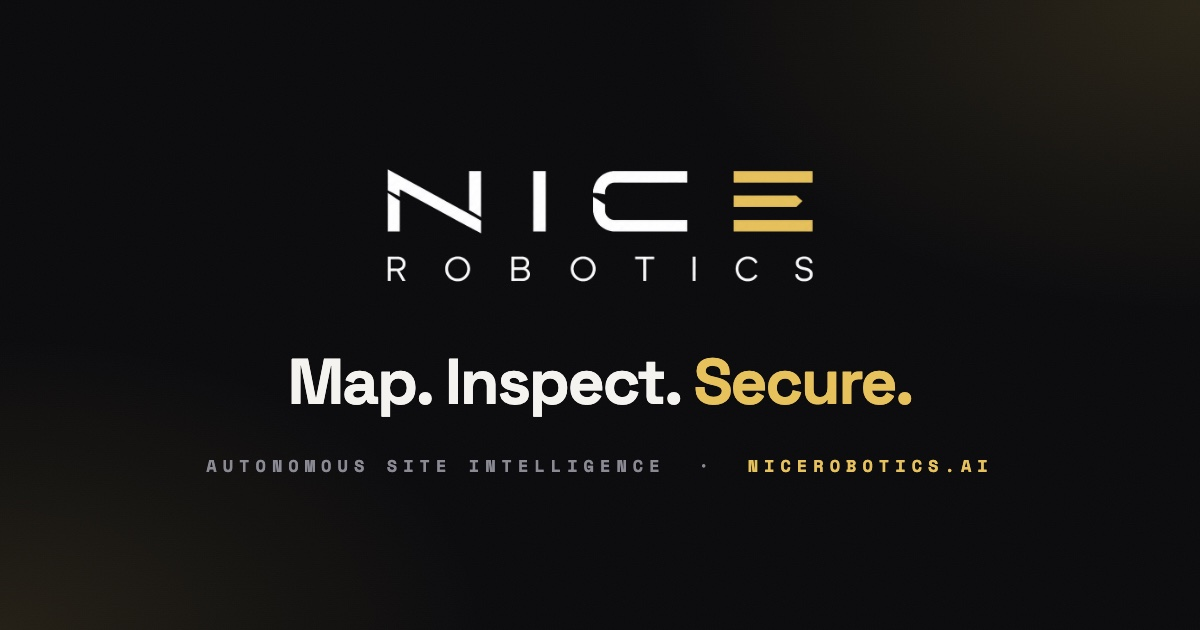
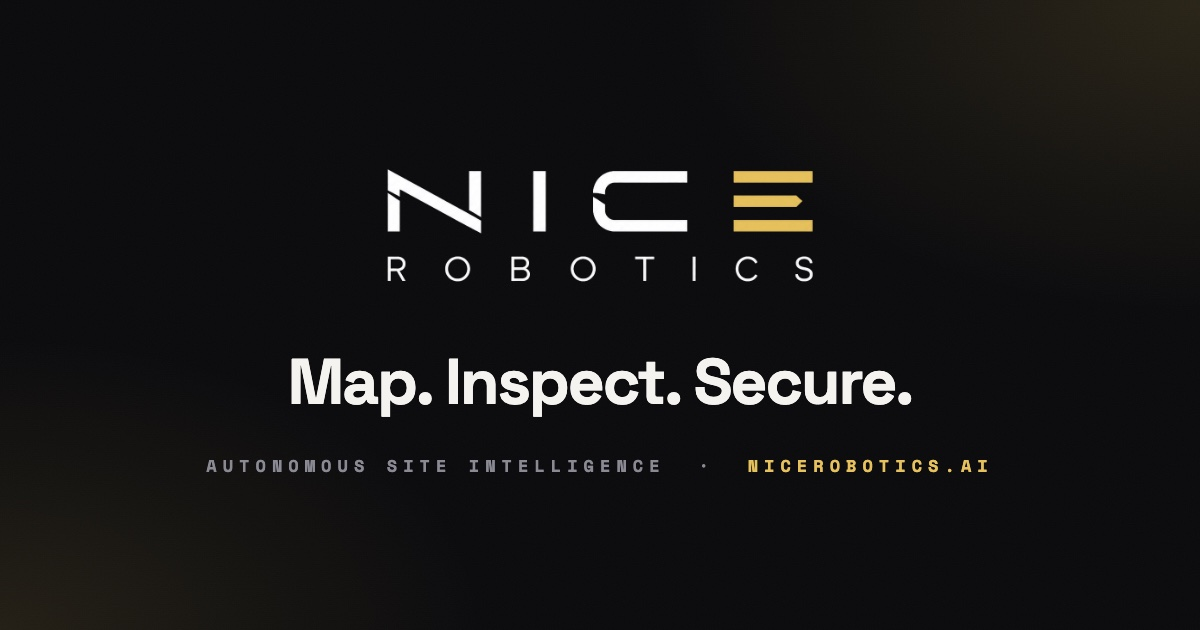
OG card: white Secure (v5)

Changed region(s): [[0.555, 0.573, 0.7708, 0.6635]]

diff --git a/index.html b/index.html
@@ -12,11 +12,11 @@
 <meta property="og:title" content="Nice Robotics — Map. Inspect. Secure." />
 <meta property="og:description" content="Intelligent drone swarms that map, inspect, and secure the sites the world runs on." />
 <meta property="og:url" content="https://nicerobotics.ai/" />
-<meta property="og:image" content="https://nicerobotics.ai/assets/og.jpg?v=4" />
+<meta property="og:image" content="https://nicerobotics.ai/assets/og.jpg?v=5" />
 <meta name="twitter:card" content="summary_large_image" />
 <meta name="twitter:title" content="Nice Robotics — Map. Inspect. Secure." />
 <meta name="twitter:description" content="Intelligent drone swarms that map, inspect, and secure the sites the world runs on." />
-<meta name="twitter:image" content="https://nicerobotics.ai/assets/og.jpg?v=4" />
+<meta name="twitter:image" content="https://nicerobotics.ai/assets/og.jpg?v=5" />
 <link rel="preconnect" href="https://fonts.googleapis.com" />
 <link rel="preconnect" href="https://fonts.gstatic.com" crossorigin />
 <link href="https://fonts.googleapis.com/css2?family=Space+Grotesk:wght@400;500;600;700&family=Space+Mono:wght@400;700&display=swap" rel="stylesheet" />
